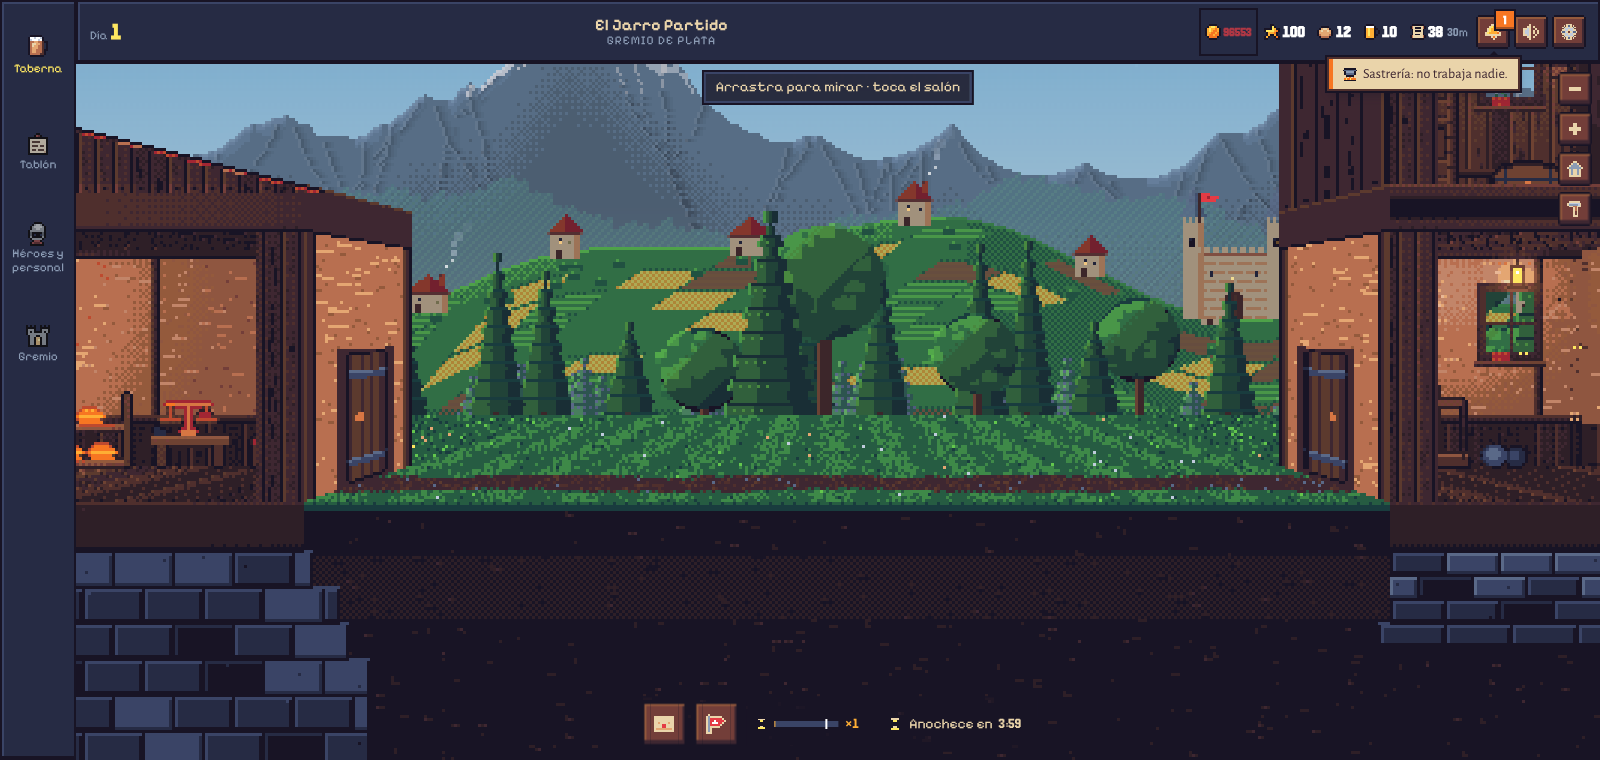
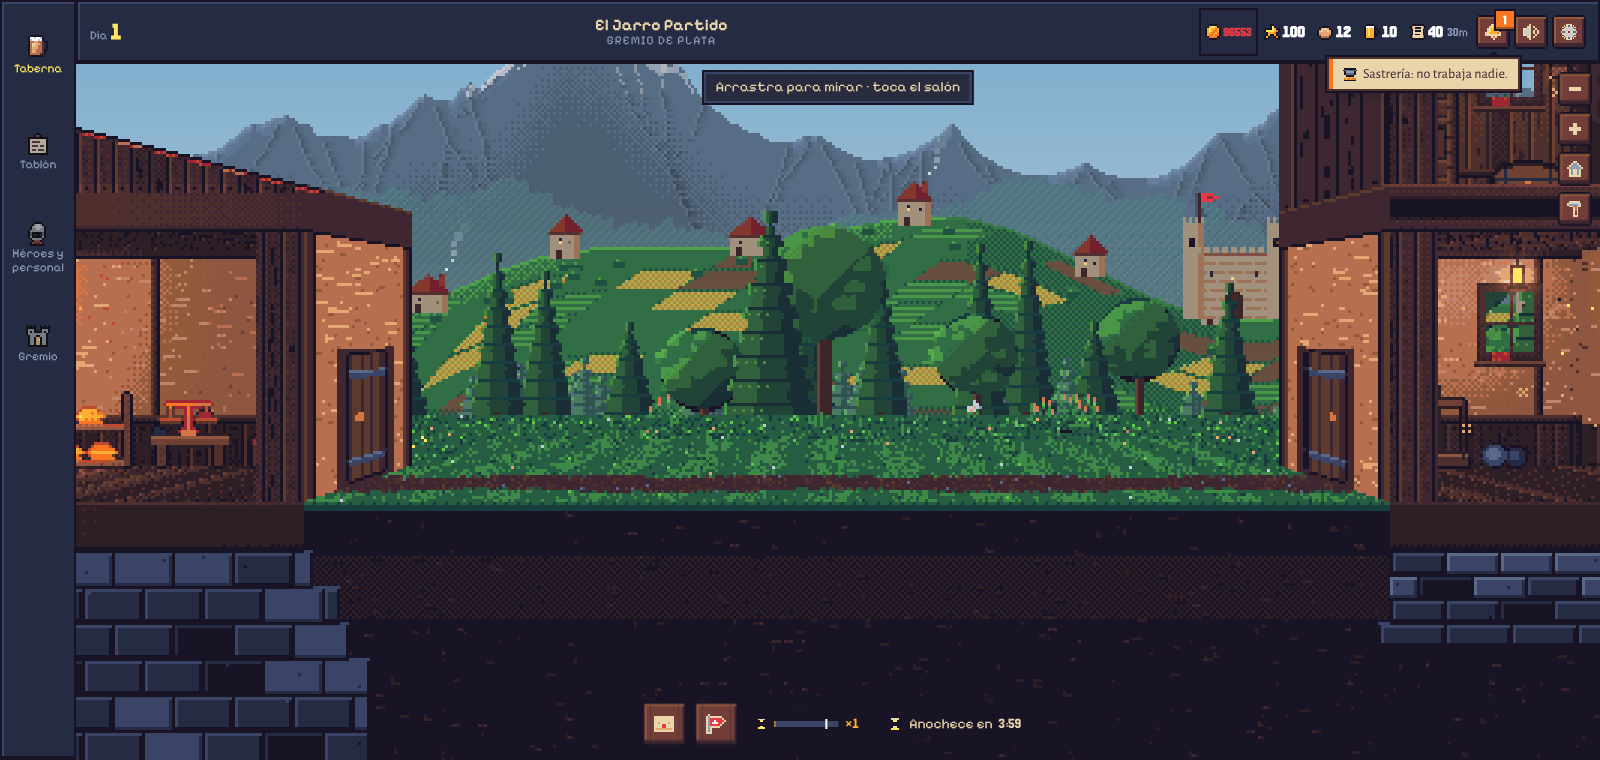
Jardín: el césped no llega al fondo, acaba en un borde sin segar
El césped llega hasta `LAWN_D` y acaba en un borde de hierba sin segar,
irregular (al fondo, y a los lados donde ya no hay edificios). De ahí a los
árboles, el terreno de siempre con sus matas.

Claude-Session: https://claude.ai/code/session_011Wau2CUcks799q681YrKG8

diff --git a/src/world/rooms/RoomScene.ts b/src/world/rooms/RoomScene.ts
@@ -118,6 +118,8 @@ const DAY_LENGTH = 720;
 const TERRAIN_PAD = 3200;
 /** Ancho del trozo de terreno o de tierra que se repite hasta allí. */
 const TILE = 512;
+/** Hasta dónde llega el césped del jardín; de ahí a los árboles, el terreno. */
+const LAWN_D = 140;
 const DAWN_LIGHT = 0.65;
 const NEAR = 20;
 const FAR = EYE + 400;
@@ -1365,24 +1367,26 @@ export class RoomScene {
       ],
       { ...yard, repeat: nr },
     );
-    // Detrás del edificio, la hierba del terreno; detrás del jardín, su césped (más abajo).
+    // Detrás del edificio, la hierba del terreno; en el jardín, su césped (más abajo) hasta
+    // `LAWN_D`, y de ahí a los árboles, el terreno otra vez.
     const garden = L.garden;
-    const behind: [number, number][] = garden
+    const behind: [number, number, number][] = garden
       ? [
-          [L.left, garden.x],
-          [garden.x + garden.w, L.right],
+          [L.left, garden.x, back],
+          [garden.x, garden.x + garden.w, LAWN_D],
+          [garden.x + garden.w, L.right, back],
         ]
-      : [[L.left, L.right]];
-    for (const [a, c] of behind)
+      : [[L.left, L.right, back]];
+    for (const [a, c, z] of behind)
       this.plane(
         g,
         groundTex(
           Math.round(c - a),
-          (YARD_D - back) / 2,
+          (YARD_D - z) / 2,
           false,
-          a === L.left ? 'huerto' : 'huerto2',
+          a === L.left ? 'huerto' : `huerto${a}`,
         ),
-        [at(a, GROUND, back), at(c, GROUND, back), at(c, GROUND, YARD_D), at(a, GROUND, YARD_D)],
+        [at(a, GROUND, z), at(c, GROUND, z), at(c, GROUND, YARD_D), at(a, GROUND, YARD_D)],
         yard,
       );
     // Dentro del ancho del edificio, donde la planta baja está vacía (un solar sin construir,
@@ -1392,15 +1396,15 @@ export class RoomScene {
       if (room.type !== 'torre' && room.floor <= 0 && room.floor + room.h > 0)
         used.push([rect.x, rect.x + rect.w]);
     for (const s of stairCells(L)) if (s.floor === 0) used.push([s.rect.x, s.rect.x + s.rect.w]);
-    // El jardín, aparte y hasta el fondo como el patio: césped cuidado con el camino pisado de
-    // una puerta a la otra (las puertas están hacia `WALK_Z`, por donde cruza la gente).
+    // El jardín, aparte: césped cuidado con el camino pisado de una puerta a la otra (las
+    // puertas están hacia `WALK_Z`, por donde cruza la gente), que acaba en un borde sin segar.
     if (garden) {
       const gx0 = garden.x;
       const gx1 = garden.x + garden.w;
       this.plane(
         g,
-        lawnTex(Math.round(gx1 - gx0), YARD_D / 2, 'jardin', 16, 42),
-        [at(gx0, GROUND, 0), at(gx1, GROUND, 0), at(gx1, GROUND, YARD_D), at(gx0, GROUND, YARD_D)],
+        lawnTex(Math.round(gx1 - gx0), LAWN_D / 2, 'jardin', 16, 42, back),
+        [at(gx0, GROUND, 0), at(gx1, GROUND, 0), at(gx1, GROUND, LAWN_D), at(gx0, GROUND, LAWN_D)],
         yard,
       );
       used.push([gx0, gx1]);
@@ -1909,9 +1913,10 @@ export class RoomScene {
     for (let i = 0; i < 220; i++) {
       const x = L.left - 460 + rng.next() * (L.right - L.left + 920);
       const z = 4 + rng.next() * (YARD_D - 30);
-      // Ni dentro del edificio, ni en el jardín (está segado), ni encima del pozo.
+      // Ni dentro del edificio, ni en el césped del jardín (sí en su borde), ni encima del pozo.
       if (x > L.left - 6 && x < L.right + 6 && z < DEPTH + 8) continue;
-      if (L.garden && x > L.garden.x - 6 && x < L.garden.x + L.garden.w + 6) continue;
+      const lawn = L.garden && x > L.garden.x + 8 && x < L.garden.x + L.garden.w - 8;
+      if (lawn && z < LAWN_D - 10) continue;
       if (Math.hypot(x - well.x, (z - well.z) * 0.6) < 18) continue;
       // No en el camino de tierra del patio (por delante).
       if (z > 6 && z < 26 && x < L.left) continue;

diff --git a/src/art/grass.ts b/src/art/grass.ts
@@ -152,18 +152,45 @@ export function groundTex(
  * El césped del jardín (entre el edificio y el anexo): hierba corta y pareja, con las pasadas
  * de la siega en franjas, y un camino de tierra pisada de una puerta a la otra entre las
  * profundidades `z0` y `z1` del mundo (la textura va a media resolución y su fila 0 es la del
- * fondo). Sin las matas ni las flores del terreno: está cuidado.
+ * fondo). Sin las matas ni las flores del terreno: está cuidado. No llega al fondo del terreno:
+ * acaba en un borde de hierba sin segar, irregular, al fondo y, más allá de la profundidad
+ * `open` (donde se acaban los edificios de los lados), también a los lados.
  */
-export function lawnTex(w: number, d: number, seed: string, z0: number, z1: number): PixelBuffer {
+export function lawnTex(
+  w: number,
+  d: number,
+  seed: string,
+  z0: number,
+  z1: number,
+  open: number,
+): PixelBuffer {
   const b = new PixelBuffer(w, d);
   const rng = new Rng(seed);
   const STRIPE = 14;
+  // El borde sin segar: de fondo (en filas) y de lado (en columnas), que ondula.
+  const backRim = (x: number) => 4 + Math.sin(x * 0.11) * 2 + Math.sin(x * 0.031 + 1) * 1.5;
+  const sideRim = (y: number, k: number) => 7 + Math.sin(y * 0.37 + k) * 2.5;
+  const openRow = d - open / 2;
+  const rim = (x: number, y: number) =>
+    y < backRim(x) || (y < openRow && (x < sideRim(y, 0) || x >= w - sideRim(y, 3)));
   // Las filas del camino.
   const r0 = d - z1 / 2;
   const r1 = d - z0 / 2;
   for (let y = 0; y < d; y++)
     for (let x = 0; x < w; x++) {
       const n = rng.next();
+      if (rim(x, y)) {
+        // Hierba sin segar, con su florecilla; y el canto del césped recortado, más oscuro.
+        let col: string = n < 0.14 ? P.deep : n > 0.84 ? P.leaf : P.forest;
+        if (n > 0.975) col = P.lime;
+        if (n > 0.993) col = rng.chance(0.5) ? P.lemon : P.white;
+        b.set(x, y, col);
+        continue;
+      }
+      if (rim(x - 1, y) || rim(x + 1, y) || rim(x, y - 1)) {
+        b.set(x, y, n < 0.6 ? P.deep : P.forest);
+        continue;
+      }
       // El borde del camino ondula un poco y la hierba lo invade a mordiscos.
       const a = r0 + Math.sin(x * 0.07) * 1.2 + (n > 0.9 ? 1 : 0);
       const c = r1 + Math.sin(x * 0.05 + 2) * 1.2 - (n < 0.1 ? 1 : 0);
@@ -187,7 +214,7 @@ export function lawnTex(w: number, d: number, seed: string, z0: number, z1: numb
   for (let i = 0; i < (w * d) / 400; i++) {
     const x = rng.int(0, w - 1);
     const y = rng.int(0, d - 1);
-    if (y >= r0 - 1 && y <= r1) continue;
+    if ((y >= r0 - 1 && y <= r1) || rim(x, y)) continue;
     b.set(x, y, rng.chance(0.7) ? P.white : P.lemon);
   }
   return b;

diff --git a/docs/plan-arte.md b/docs/plan-arte.md
@@ -149,8 +149,10 @@ npm run build`.
          tiene rellano abajo, no hay puerta (como `opens` en `cutOff`). Opción `garden` de `box`
          en `RoomScene.ts`.
    - [x] 3. El jardín liso: césped segado en franjas (`lawnTex` en
-         `art/grass.ts`) hasta el fondo, como el patio, con un camino de tierra pisada de una
-         puerta a la otra (hacia `WALK_Z`); sin las matas al viento ni las flores del terreno.
+         `art/grass.ts`) con un camino de tierra pisada de una puerta a la otra (hacia
+         `WALK_Z`); sin las matas al viento ni las flores del terreno. No llega al fondo (el
+         usuario): acaba en `LAWN_D` con un borde sin segar (al fondo, y a los lados donde ya no
+         hay edificios) y de ahí a los árboles, el terreno con sus matas.
          Ojo: en las texturas del suelo, la fila 0 es la del fondo.
    - [ ] 4. Las piezas de `GardenLook`.
    - [ ] 5. El claustro.
